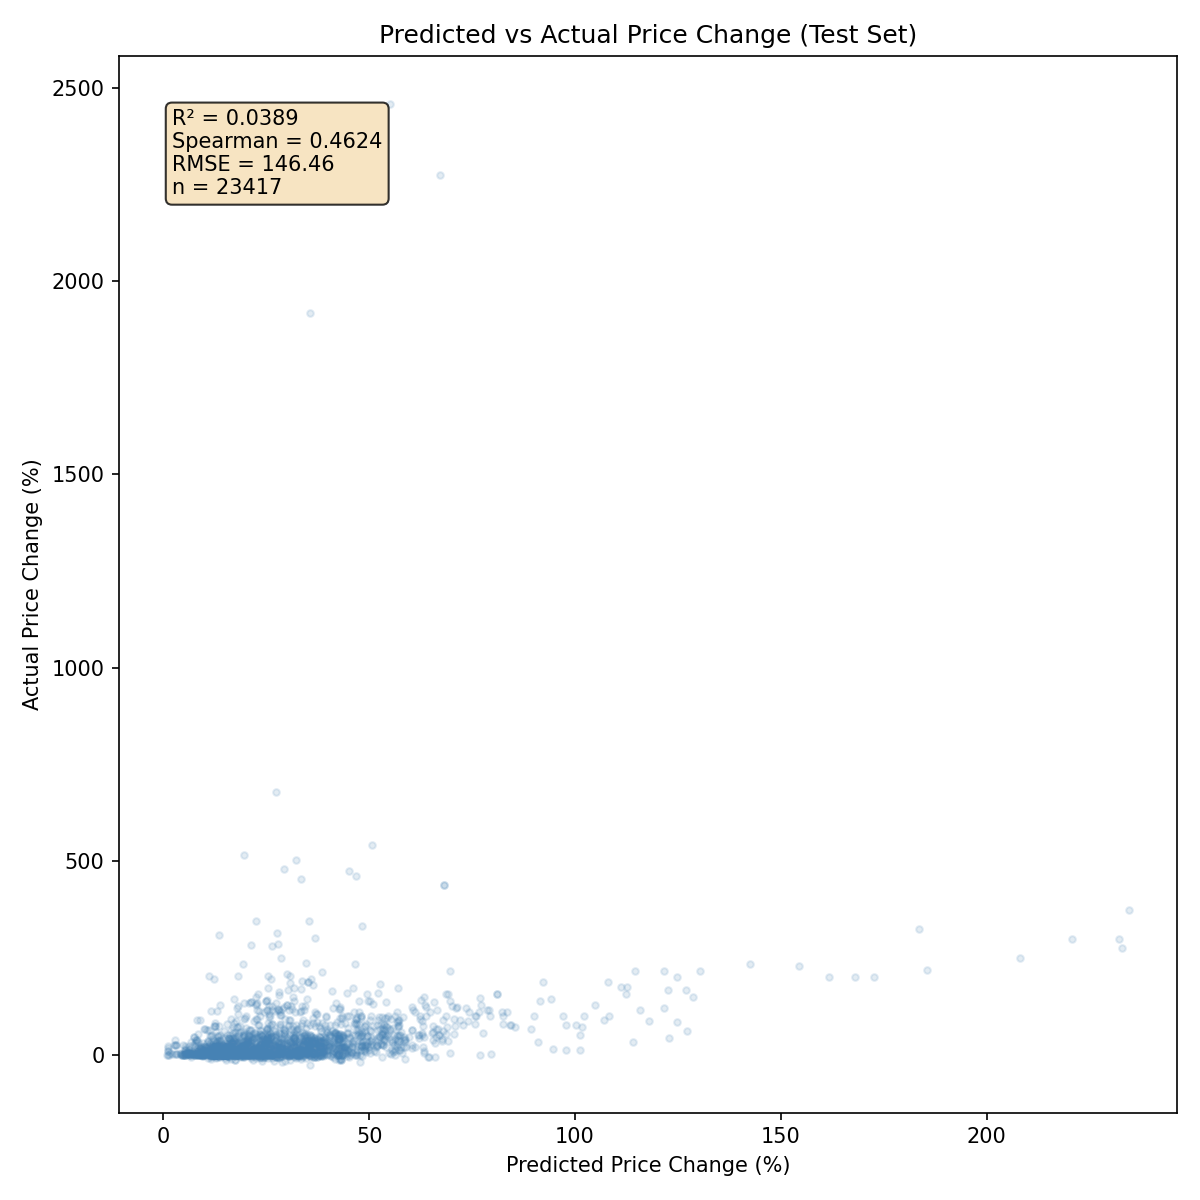
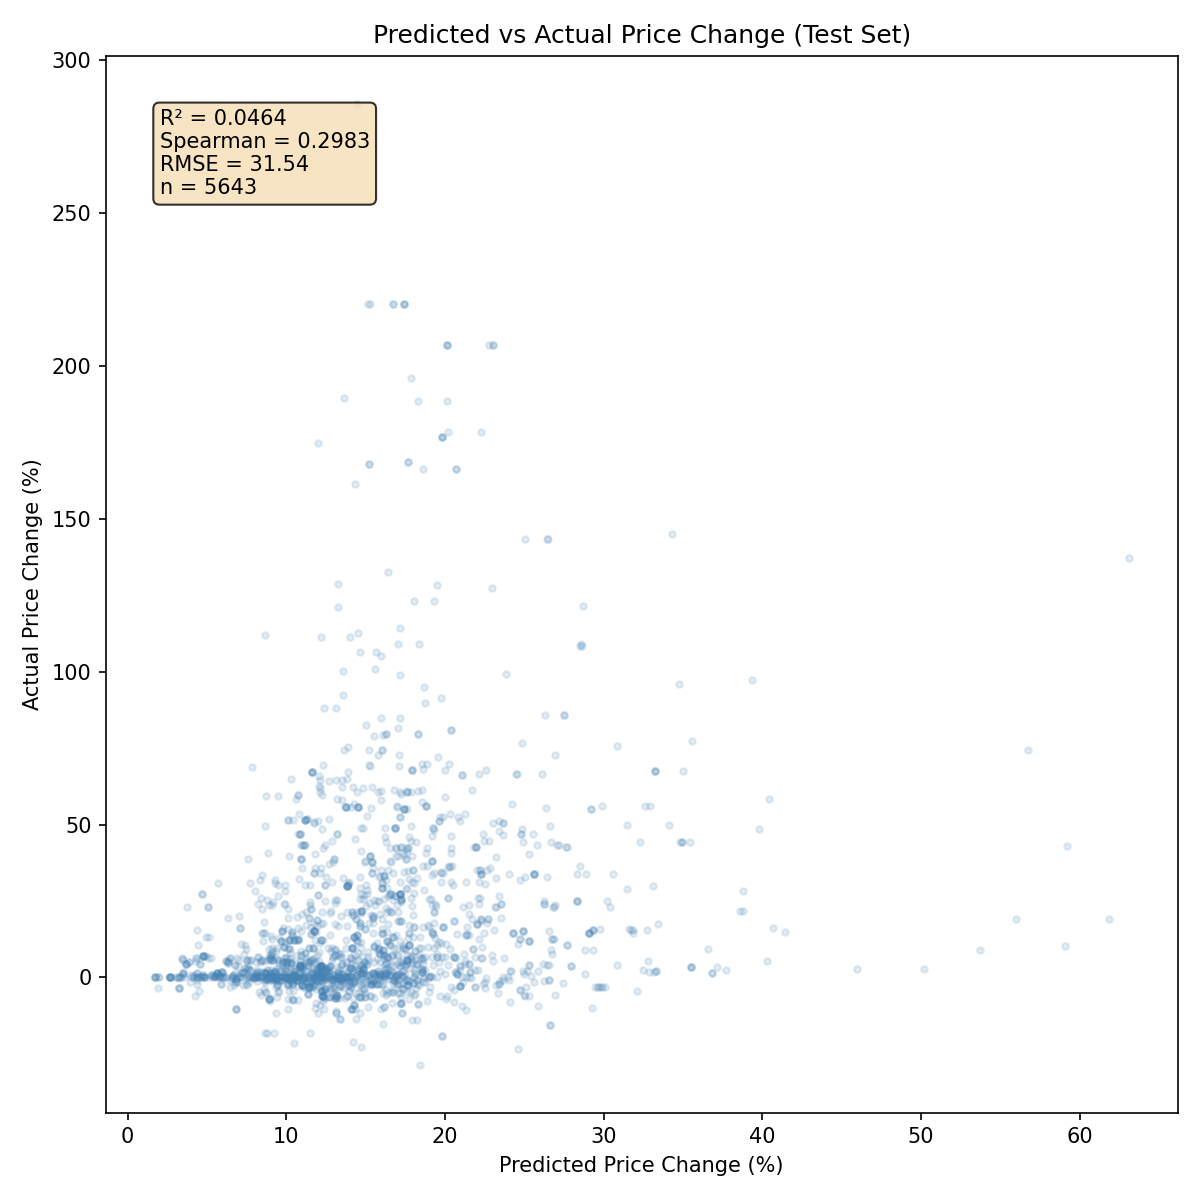
final updates

diff --git a/README.md b/README.md
@@ -242,15 +242,21 @@ XGBoost regressor ensemble of 5, trained on 37,615 rows.
 
 On the test split, RMSE is 31.5 (vs 40.4 train, 37.6 validation), MAE is
 18.8 (17.6 train, 19.6 validation), and R² is 0.05 (0.23 train, 0.05
-validation). Test **Spearman correlation is 0.46**.
+validation). Test **Spearman correlation is 0.30** (0.43 train, 0.24
+validation), with average per-tournament Spearman of 0.28.
 
 R² is intentionally not the headline — card-price spikes are noisy enough
 that hitting exact percent changes is impossible, and what matters is
-*ranking* cards correctly. Spearman of 0.46 on the test set is a strong
-rank correlation. The overfitting check fires (train-test R² gap of 0.18
-versus a 0.10 threshold), but test RMSE is actually *lower* than train
-RMSE — the gap reappeared because the `MIN_CARD_PRICE=$8` filter cut
-training rows down. Flagging honestly.
+*ranking* cards correctly. Test Spearman of 0.30 is a moderate rank
+correlation, and the rank-based backtest below confirms the ranking has
+real economic value. The overfitting check fires (train-test R² gap of
+0.18 versus a 0.10 threshold), but test RMSE is actually *lower* than
+train RMSE — the gap reappeared because the `MIN_CARD_PRICE=$8` filter
+cut training rows down. Flagging honestly.
+
+Direction-of-change accuracy on the test set is **72.4%** — the model
+correctly predicts whether a card will go up or down nearly three-quarters
+of the time, even when the magnitude is off.
 
 The top feature importances are `archetype_avg_top_cut_rate` (0.085),
 `distance_from_high` (0.073), `momentum_90d` (0.065), `price_at_tournament`
@@ -259,20 +265,39 @@ The top feature importances are `archetype_avg_top_cut_rate` (0.085),
 
 ### Rank-based backtest (zero-fee, simulated)
 
-For each of the 211 test tournaments, picking the top-N cards by model rating:
+For each of the 246 test tournaments, picking the top-N cards by model rating:
 
-- **Top 1 per tournament** returned +35.1% ROI with an 84.8% win rate
-  across 211 trades — a +18.9 percentage-point edge over the random
+- **Top 1 per tournament** returned +29.9% ROI with an 86.2% win rate
+  across 246 trades — a +14.7 percentage-point edge over the random
   baseline.
-- **Top 2** returned +32.5% ROI (85.5% win rate, 421 trades, +18.2 pp).
-- **Top 3** returned +29.8% (85.1%, 631 trades, +16.4 pp).
-- **Top 5** returned +26.3% (83.6%, 1,050 trades, +12.8 pp).
-- **Top 10** returned +20.6% (80.5%, 2,029 trades, +6.7 pp).
+- **Top 2** returned +25.6% ROI (84.5% win rate, 491 trades, +11.7 pp).
+- **Top 3** returned +25.0% (83.0%, 735 trades, +10.6 pp).
+- **Top 5** returned +23.8% (81.2%, 1,223 trades, +9.4 pp).
+- **Top 10** returned +20.4% (78.7%, 2,397 trades, +6.4 pp).
 
 The random baseline (top-1 random pick per tournament, averaged over 20
-trials) returned +13.9% ROI. **In a frictionless world, the ranking edge
-is real and large** — the model beats random by ~19 percentage points at
-Top-1 and the edge degrades cleanly as the pick set widens.
+trials) returned +13.0% ROI. **In a frictionless world, the ranking edge
+is real** — the model beats random by ~15 percentage points at Top-1 and
+the edge degrades cleanly as the pick set widens, which is the expected
+shape of a working ranker.
+
+### Sell-timing model
+
+The sell classifier was trained on **2.39 million day-rows** generated from
+37,615 historical buy positions, with class distribution 8.2% SELL /
+91.8% HOLD. On the held-out test set (357,789 day-rows) at the default
+0.5 probability threshold:
+
+- **Overall accuracy: 99%**
+- HOLD class: precision 1.00 / recall 0.99 / F1 0.99
+- SELL class: precision 0.87 / recall 1.00 / F1 0.93
+
+The top three feature importances are `peak_gain_pct` (0.43),
+`price_momentum_3d` (0.39), and `predicted_change_pct` (0.10) — i.e. the
+classifier learns to fire SELL when a position is well into profit AND
+recent momentum has turned over. The classification metrics are strong;
+how much of that quality survives realistic sell timing in the paper
+trader is the question the next section answers.
 
 ### Paper trader replay (with fees, `strategy_id='default'`)
 
@@ -307,11 +332,11 @@ XGBoost feature importance averaged across the 5-model ensemble. The top three (
 
 ### Predicted vs Actual
 ![Predicted vs Actual](visualization/figures/predicted_vs_actual.png)
-Test set predictions vs actuals. R² is low (0.04) — exact percent-change values are noisy — but Spearman ranking correlation is strong (0.46), which is the signal the paper trader actually uses.
+Test set predictions vs actuals (5,643 samples). R² is low (0.05) — exact percent-change values are noisy — but Spearman ranking correlation is moderate (0.30), and the rank-based backtest shows that ranking translates into real economic edge.
 
 ### Backtest: Model vs Random Baseline
 ![Backtest ROI](visualization/figures/backtest_roi.png)
-Zero-fee rank-based backtest across 211 test tournaments. The model's top pick per tournament returns +35.1% ROI versus +13.9% for the random baseline (averaged over 20 trials) — a +18.9 percentage-point edge. Win rates stay above 80% for Top 1-5 strategies and degrade as the pick set widens.
+Zero-fee rank-based backtest across 246 test tournaments. The model's top pick per tournament returns +29.9% ROI versus +13.0% for the random baseline (averaged over 20 trials) — a +14.7 percentage-point edge. Win rates stay above 78% for Top 1-10 strategies and degrade cleanly as the pick set widens, the expected shape of a working ranker.
 
 ### KMeans Cluster Analysis
 ![Cluster Analysis](visualization/figures/cluster_analysis.png)
